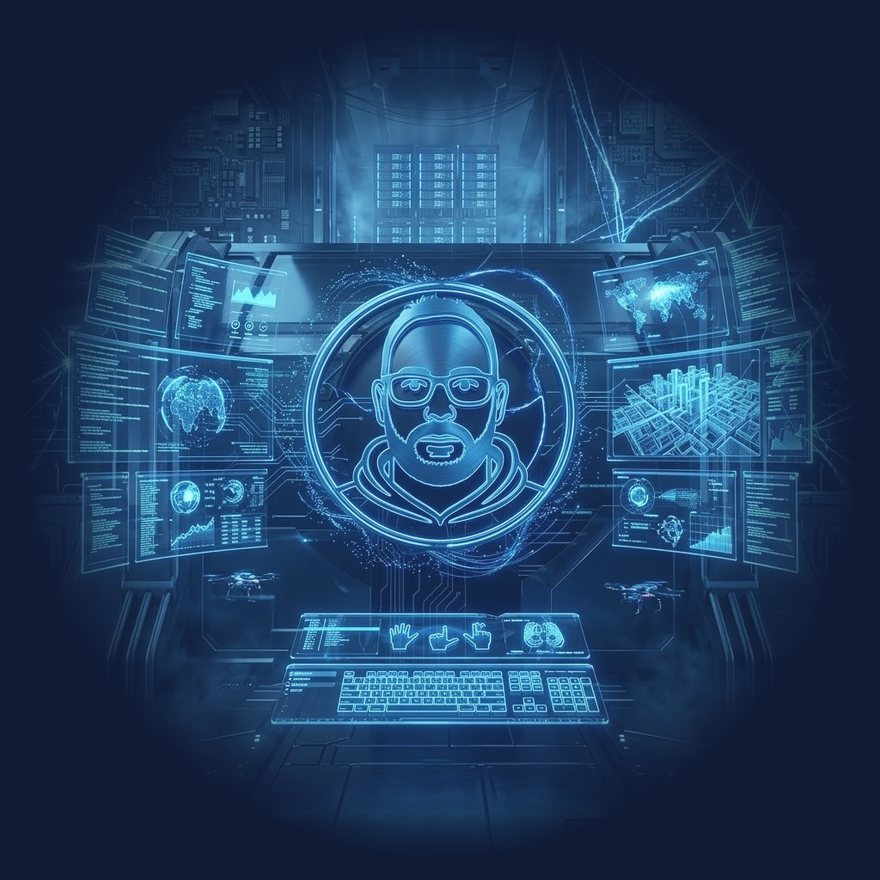
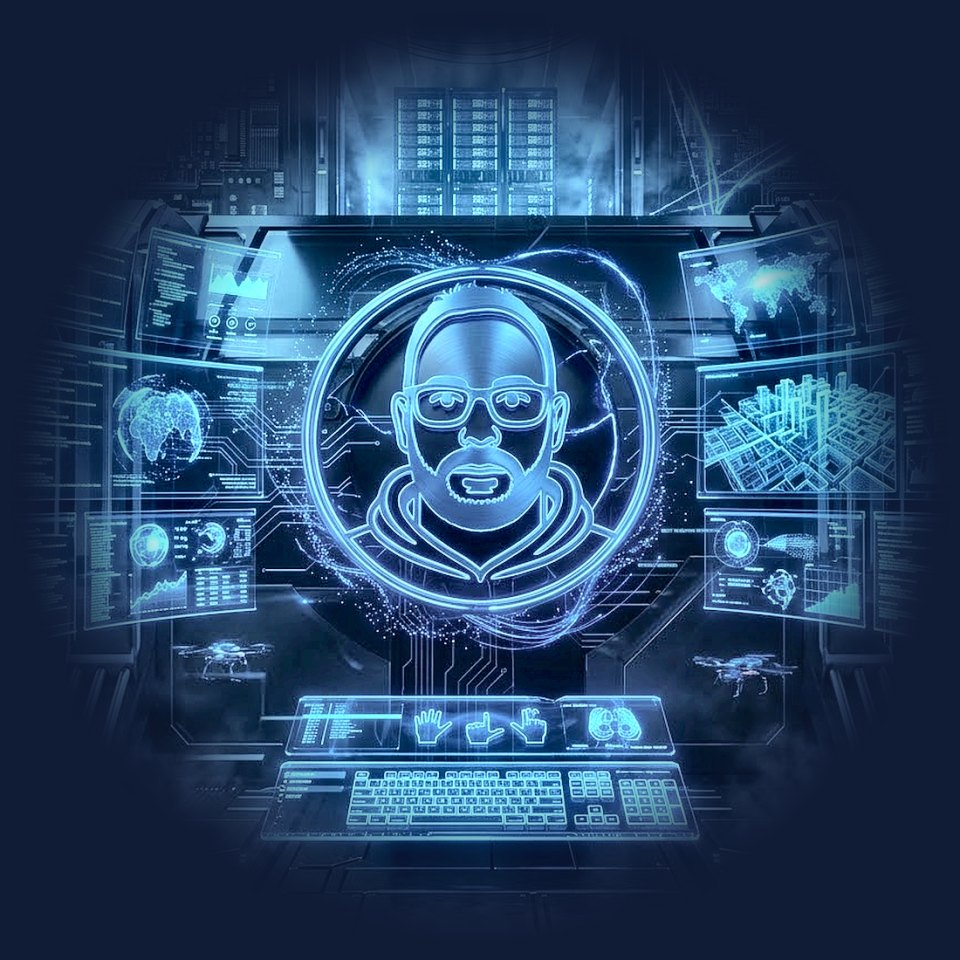
Portada: imagen principal más nítida, con más contraste y más encuadrada
Claude-Session: https://claude.ai/code/session_01SFsyJ8UdP1v9Q3MP1vrX1K

diff --git a/index.html b/index.html
@@ -17,7 +17,7 @@ title: Inicio
       </div>
     </div>
     <div class="hero-img">
-      <img src="{{ '/assets/img/hero-luis.jpg' | relative_url }}" alt="Ilustración de Luis Adán Muñoz rodeado de paneles holográficos con mapas, gráficas y código, en un centro de datos" width="880" height="880" fetchpriority="high">
+      <img src="{{ '/assets/img/hero-luis.jpg' | relative_url }}" alt="Ilustración de Luis Adán Muñoz rodeado de paneles holográficos con mapas, gráficas y código, en un centro de datos" width="960" height="960" fetchpriority="high">
     </div>
   </div>
 </section>
